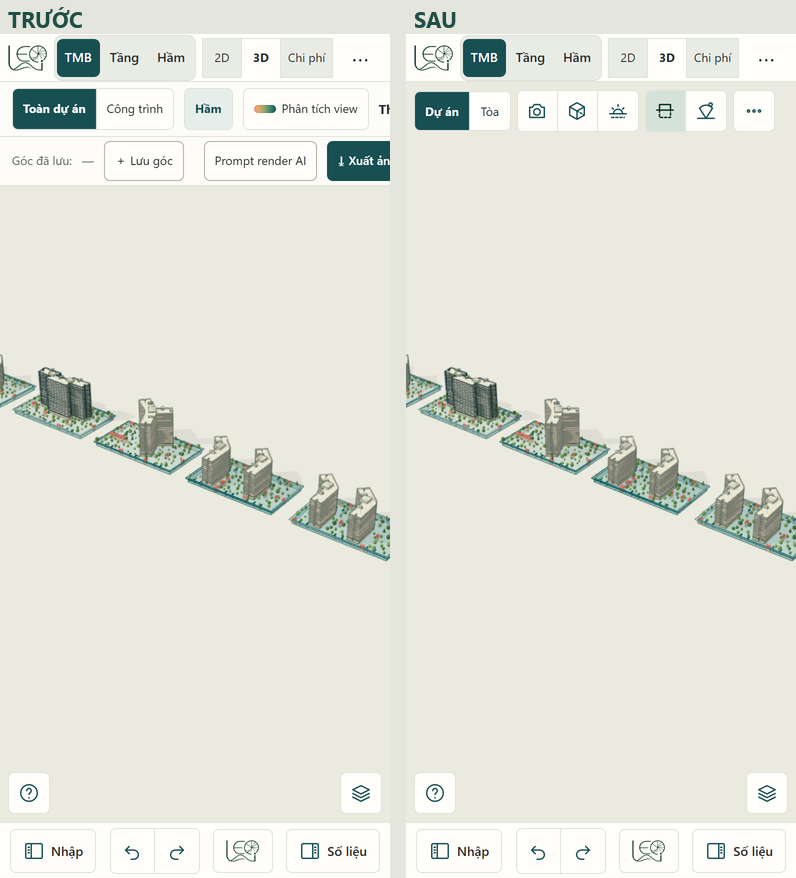
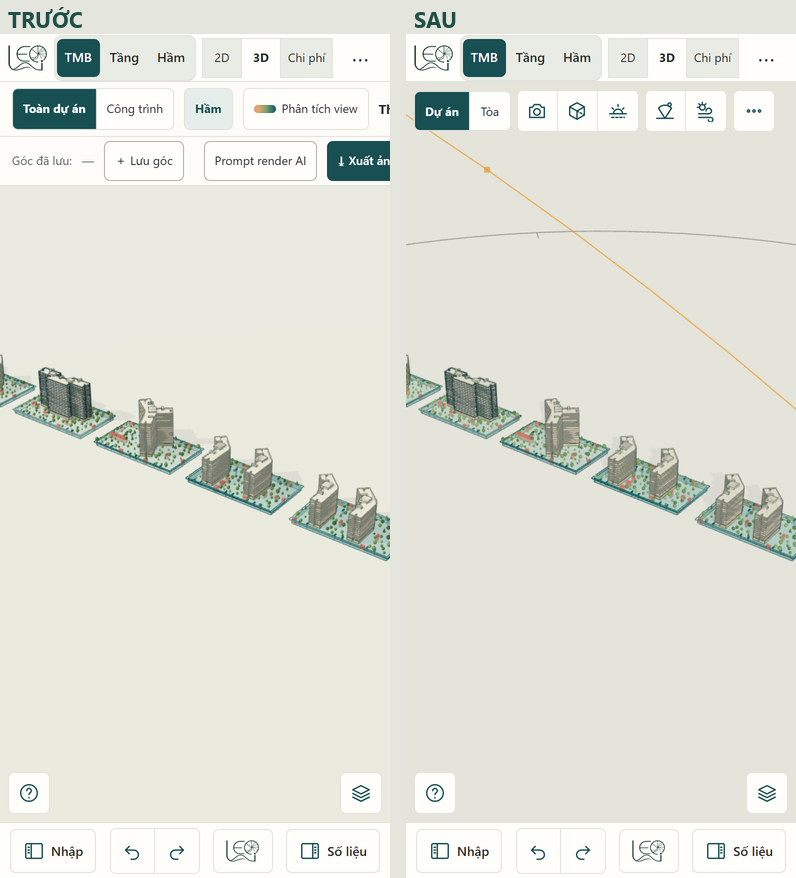
fix(gọn): sau gộp Nắng · Gió — nút Nắng · Gió biểu tượng, một thanh giờ (hộp Vị trí · Nắng · Gió; menu ☀ còn Cắt ngang khi có gói), Hầm ẩn khỏi thanh trên điện thoại (đã ở Lớp), hộp Vị trí · Nắng · Gió gọn (Góc Bắc một hàng, Nguồn ảnh nhãn trái, ô toạ độ không tràn); ảnh 3D trước / sau làm mới, nhật

diff --git a/web/src/ve3d/Khung3D.tsx b/web/src/ve3d/Khung3D.tsx
@@ -91,6 +91,8 @@ type Props = {
   phanTich?: PhanTich3D;
   /** Nút bật / tắt phân tích (Hầm, Phân tích view, Vị trí · Nắng · Gió…) — nhóm biểu tượng thứ hai của thanh một hàng. */
   nutPhanTich?: ComponentChildren;
+  /** Giờ nắng do công cụ khác điều khiển (hộp Vị trí · Nắng · Gió có ngày + thanh giờ + chạy, đồng bộ qua `moRong.datGio`): menu ☀ chỉ còn mặt cắt — một thanh giờ duy nhất. */
+  gioNgoai?: boolean;
 };
 
 // kiểu 3D: khoá mới (v2) để mặc định Vật liệu áp cho cả máy đã lưu 'brand' từ trước (trước đây khung luôn ghi kiểu đang xem)
@@ -119,7 +121,7 @@ export function gocMacDinh(c: Pick<CanhDung, 'tam' | 'coCanh' | 'cao'>): GocDeXu
 }
 
 /** Khung WebGL: xoay / di / phóng, mặt trời theo giờ, cắt ngang, kiểu Brand / mô hình trắng, góc đề xuất, lưu góc, xuất ảnh. Three.js nạp lười. */
-export function Khung3D({ khoa, khoaNhe, dung, gocBac = 0, viDo = 21.03, chinhThamSo, toaNguyen, tieuDe, dauThanh, gocLuu, onLuuGoc, onXoaGoc, tenAnh = 'Unitmix-3D', chon, onChon, onMo, chuThich, lop, lopAn, phanTich, nutPhanTich, moRong }: Props) {
+export function Khung3D({ khoa, khoaNhe, dung, gocBac = 0, viDo = 21.03, chinhThamSo, toaNguyen, tieuDe, dauThanh, gocLuu, onLuuGoc, onXoaGoc, tenAnh = 'Unitmix-3D', chon, onChon, onMo, chuThich, lop, lopAn, phanTich, nutPhanTich, gioNgoai, moRong }: Props) {
   useLang();
   const hop = useRef<HTMLDivElement>(null);
   const cv = useRef<HTMLCanvasElement>(null);
@@ -691,8 +693,8 @@ export function Khung3D({ khoa, khoaNhe, dung, gocBac = 0, viDo = 21.03, chinhTh
             {!toaNguyen && <div class="menu-nut-nhom" />}
             {!toaNguyen && dsHien.map(([k, n]) => <label class="menu-nut-tich" key={k}><input type="checkbox" checked={hien[k]} onChange={(e) => setHien({ ...hien, [k]: e.currentTarget.checked })} /><span>{t(n)}</span></label>)}
           </MenuNut>
-          <MenuNut k="nangCat" nhan={t('bt.nangCat')} dongKhiChon={false} lop="menu-nang-3d">
-            <label class="menu-nut-truot"><span>{t('m3d.gio')}</span><input type="range" min="6" max="18" step="0.5" value={gio} onInput={(e) => setGio(+e.currentTarget.value)} /><b>{gio}h</b></label>
+          <MenuNut k="nangCat" nhan={gioNgoai ? t('m3d.cat') : t('bt.nangCat')} dongKhiChon={false} lop="menu-nang-3d">
+            {!gioNgoai && <label class="menu-nut-truot"><span>{t('m3d.gio')}</span><input type="range" min="6" max="18" step="0.5" value={gio} onInput={(e) => setGio(+e.currentTarget.value)} /><b>{gio}h</b></label>}
             <label class="menu-nut-truot"><span>{t('m3d.cat')}</span><input type="range" min="0.05" max="1" step="0.01" value={cat} onInput={(e) => setCat(+e.currentTarget.value)} /><b>{Math.round(cat * 100)}%</b></label>
           </MenuNut>
         </span>

diff --git a/web/src/ve3d/MoHinh3D.tsx b/web/src/ve3d/MoHinh3D.tsx
@@ -255,7 +255,7 @@ export function MoHinhChinh({ pa, tv, sua, chiXem, toa, mau, mauTang, tenDuAn, c
     </span>
   );
   const nutHam = (
-    <NutBieuTuong k="ham3d" nhan={t('m3d.ham')} ghiChu={t('m3d.hamGiaiThich')} bat={hienHam} onClick={() => doiLop('ham')}>
+    <NutBieuTuong k="ham3d" lop="an-dt" nhan={t('m3d.ham')} ghiChu={t('m3d.hamGiaiThich')} bat={hienHam} onClick={() => doiLop('ham')}>
       {hienHam && dieuPhoiHam.dangChoKenh('3d') && <img class="spin-o" src="/brand/leo_ai_o.png" alt={t('ham.dangRai')} title={t('ham.dangRai')} style={{ width: '12px', height: '12px' }} />}
     </NutBieuTuong>
   );
@@ -274,7 +274,7 @@ export function MoHinhChinh({ pa, tv, sua, chiXem, toa, mau, mauTang, tenDuAn, c
   // tòa đang xem không vào khoá: đổi tòa (kể cả bấm chọn trong 3D) chỉ dựng lại nhẹ, giữ góc nhìn (góc "Cận tòa chọn" theo tòa mới)
   const khoa = ['du_an', pa.lo.length, pa.toa.map((x) => [x.id, x.mauId, x.x, x.y, x.gocDo, x.lat ? 1 : 0, x.soTangDe, x.soTangDH, x.deOffset].join(',')).join(';')].join('|');
   return (<>
-    <Khung3D khoa={khoa} moRong={moRong} khoaNhe={JSON.stringify(pa.ham) + '|' + vHam + '|' + (toa?.id ?? '') + '|' + napLoi.xong + '|' + loiDA.join()} toaNguyen dauThanh={nut} nutPhanTich={<>{nutHam}<NutPhanTich /><NutNangGio /></>} {...luu} tieuDe={tenDuAn} tenAnh={`Unitmix-${tenDuAn}`} phanTich={phanTich}
+    <Khung3D khoa={khoa} moRong={moRong} khoaNhe={JSON.stringify(pa.ham) + '|' + vHam + '|' + (toa?.id ?? '') + '|' + napLoi.xong + '|' + loiDA.join()} toaNguyen dauThanh={nut} nutPhanTich={<>{nutHam}<NutPhanTich /><NutNangGio /></>} gioNgoai {...luu} tieuDe={tenDuAn} tenAnh={`Unitmix-${tenDuAn}`} phanTich={phanTich}
       chon={chon3d?.chon} onChon={chon3d?.onChon} onMo={chon3d?.onMo}
       lop={[...nutLop(['tum', 'ham', 'thang', 'gio', 'cay', 'duong', 'ranh'], lopAn, doiLop), ...nutNG3D]} lopAn={lopAn}
       gocBac={vtDA.gocBac} viDo={vtDA.lat} dung={({ T, goc, M, kieu, capDo }) => dungDuAn(T, goc, M, kieu, pa, tv, toa?.id ?? null, { capDo, tumToa })} />

diff --git a/web/src/styles/gon.css b/web/src/styles/gon.css
@@ -82,6 +82,8 @@
   .thanh-3d .chu-ngan { display: inline; }
   .thanh-3d .nut-bt { min-width: 40px; height: 40px; padding: 0 6px; }
   .thanh-3d .nut-bt .mui-menu { display: none; }
+  /* Hầm đã có trong menu Lớp (góc phải dưới) → bỏ khỏi thanh trên điện thoại để thanh vừa 390 px cùng nút Nắng · Gió */
+  .thanh-3d .nut-bt.an-dt { display: none; }
 }
 
 /* ---------- Panel trái: hàng nút nhập, thẻ mẫu tòa, preset ---------- */
@@ -126,6 +128,18 @@ label.nut-nho { display: inline-flex; flex-direction: row; align-items: center; 
 
 /* Leo AI: ô chọn mô hình đủ chỗ cho "Sonnet 5.5 · Cân bằng" (trước cắt "Cân bằn") */
 @media (min-width: 1025px) { .leo-chon-mh { max-width: 190px; min-width: 0; } }
+
+/* Hộp Vị trí · Nắng · Gió (nangGio/HopNangGio.tsx, CSS gốc nang-gio.css): kit LEO ép ô số ≥ 100 px nên hàng Góc Bắc
+   [ô] −1° −0,1° +0,1° +1° vỡ hai dòng; nút ngày nhanh 2 hàng; nhãn "Nguồn ảnh" nằm trên ô chọn */
+.hop-nang-gio input, .hop-nang-gio select { min-width: 0; }
+.hop-nang-gio .hng-luoi2 input { width: 100%; box-sizing: border-box; }
+.hop-nang-gio .hng-luoi2 > label { min-width: 0; }
+.hop-nang-gio .hng-chinh { flex-wrap: nowrap; gap: 4px; }
+.hop-nang-gio .hng-chinh input[type='number'] { width: 64px; padding: 4px 6px; }
+.hop-nang-gio .hng-chinh .nut-phu { padding: 4px 6px; font-size: 12px; }
+.hop-nang-gio .hng-boc .nut-phu { padding: 4px 8px; font-size: 12px; }
+.hop-nang-gio label.hng-o:has(> select) { flex-direction: row; align-items: center; justify-content: space-between; gap: 8px; }
+.hop-nang-gio label.hng-o:has(> select) > select { flex: 0 1 auto; max-width: 68%; }
 
 /* ô số: chừa cột đơn vị để mọi ô thẳng hàng (có / không có "%", "m²") */
 .o-so-nhap { min-width: 96px; justify-content: flex-start; }

diff --git a/web/src/ui/NutBieuTuong.tsx b/web/src/ui/NutBieuTuong.tsx
@@ -15,6 +15,8 @@ type Props = {
   nhan?: string;
   /** Nút mở menu: aria-haspopup + aria-expanded. */
   moRong?: boolean;
+  /** Lớp CSS thêm (vd. `an-dt`: ẩn trên điện thoại khi việc đó đã có chỗ khác). */
+  lop?: string;
 };
 
 /** Biểu tượng nét SVG (bieuTuongSvg.ts) — chưa có hình thì dùng ký hiệu chữ ở BIEU_TUONG. */
@@ -28,10 +30,10 @@ export function BieuTuong({ k }: { k: KhoaBieuTuong }) {
 }
 
 /** Nút công cụ chỉ hiện biểu tượng nét theo brand: tên lấy từ i18n `bt.<k>`, nằm ở tooltip và aria-label. */
-export function NutBieuTuong({ k, onClick, ghiChu, bat, tat, children, nhan, moRong }: Props) {
+export function NutBieuTuong({ k, onClick, ghiChu, bat, tat, children, nhan, moRong, lop }: Props) {
   const ten = nhan ?? t(`bt.${k}`);
   return (
-    <button type="button" class="nut-bt" title={ghiChu ? `${ten} — ${ghiChu}` : ten} aria-label={ten}
+    <button type="button" class={lop ? `nut-bt ${lop}` : 'nut-bt'} title={ghiChu ? `${ten} — ${ghiChu}` : ten} aria-label={ten}
       aria-pressed={bat === undefined ? undefined : bat} disabled={tat} onClick={onClick}
       aria-haspopup={moRong === undefined ? undefined : 'menu'} aria-expanded={moRong}>
       <BieuTuong k={k} />{children}

diff --git a/docs/NHAT_KY.md b/docs/NHAT_KY.md
@@ -808,3 +808,5 @@ Script trong trang (bắt blob `URL.createObjectURL`, bắt lỗi `error` / `unh
 **Còn dở:** luật gốc kit LEO (`label` dọc, ô `min-width: 100px`) chưa thu hẹp tại nguồn — còn có thể cắn thành phần mới; tên tòa trùng mẫu ở lớp phủ bản vẽ (chữ trên TMB) và Leo AI chưa đánh số; trang Dự án vẫn hai hàng (Tạo dự án / ô dán link) khi chưa có ô tìm; bảng Dự toán Chi phí còn khoảng trống giữa Khối lượng và Đơn giá ở màn rộng; ô chọn "Dân số theo tỉnh" vẫn cắt chữ lựa chọn dài.
 
 **Đề xuất:** (1) thu hẹp luật kit LEO tại nguồn (`.form-card label`, `.hop-thoai .o-form label`) sau khi `kiem_man_hep` đã có kiểm ô tích lệch dòng + đo thêm "label có ô nhập mà nhãn trên ô trong panel" → cảnh báo; (2) một thành phần `HangSo` (nhãn · ô · đơn vị) thay ~6 bản `O`/`OSo` rải ở ManLo / ManHam / ManXepToa / lopView để không lặp lỗi; (3) thanh TMB / Tầng dùng chung `MenuNut` cho cụm ít dùng (xoay / lật / khoá) như Forma, chỉ giữ 6–8 nút thường dùng; (4) thẻ mẫu tòa có ảnh nét mặt bằng nhỏ 40 px (Architechtures hiện thumbnail) thay dòng chữ; (5) nhớ trạng thái gập từng mục panel theo máy (localStorage) — người dùng mở mục nào thì lần sau vẫn mở.
+
+**Gộp nang-cap/architechtures (Vị trí · Nắng · Gió) — cùng ngày:** xung đột `main.tsx` (giữ cả `nang-gio.css` và `gon.css`, gon nạp sau cùng), `ManXepToa.tsx` (cả tệp do khác kiểu dòng — `sed -i` của Git Bash đã đổi CRLF → LF ở bản của tôi; gộp bằng `git merge-file` trên bản bỏ `\r`, ghi lại CRLF; giữ móc ảnh nền / nắng gió + đánh số tòa + thư viện gọn), `Khung3D.tsx` / `MoHinh3D.tsx`. Một prop `moRong` duy nhất = gói cảnh `MoRong3D` của nhánh kia (ảnh nền, đường mặt trời, lớp nắng / gió); bỏ prop `moRong` dạng nút của tôi — nút cắm vào nhóm phân tích qua `nutPhanTich`. Nút chữ "☀ Nắng · Gió" thành biểu tượng `nangGio` (mây + mặt trời) cùng kho `nangGio/kho` (không sửa tệp của gói). Một thanh giờ: Toàn dự án dùng thanh giờ + chạy trong hộp Vị trí · Nắng · Gió (đồng bộ `datGio`), menu ☀ của khung chỉ còn Cắt ngang (`Khung3D gioNgoai`); Công trình vẫn có thanh giờ trong menu ☀. Điện thoại: nút Hầm ẩn khỏi thanh (đã có ở menu Lớp, `NutBieuTuong lop="an-dt"`) để thanh 3D vừa 390 px. Hộp Vị trí · Nắng · Gió: hàng Góc Bắc [ô] −1° −0,1° +0,1° +1° một dòng (kit LEO ép ô ≥ 100 px), nút ngày nhanh gọn, "Nguồn ảnh" nhãn trái / ô phải, ô Vĩ độ / Kinh độ không tràn trên điện thoại (`gon.css`). Ảnh: `docs/anh/gon/3d-may-1440.png`, `3d-dien-thoai-390.png` (làm mới), `hop-vi-tri-nang-gio*.png`.
